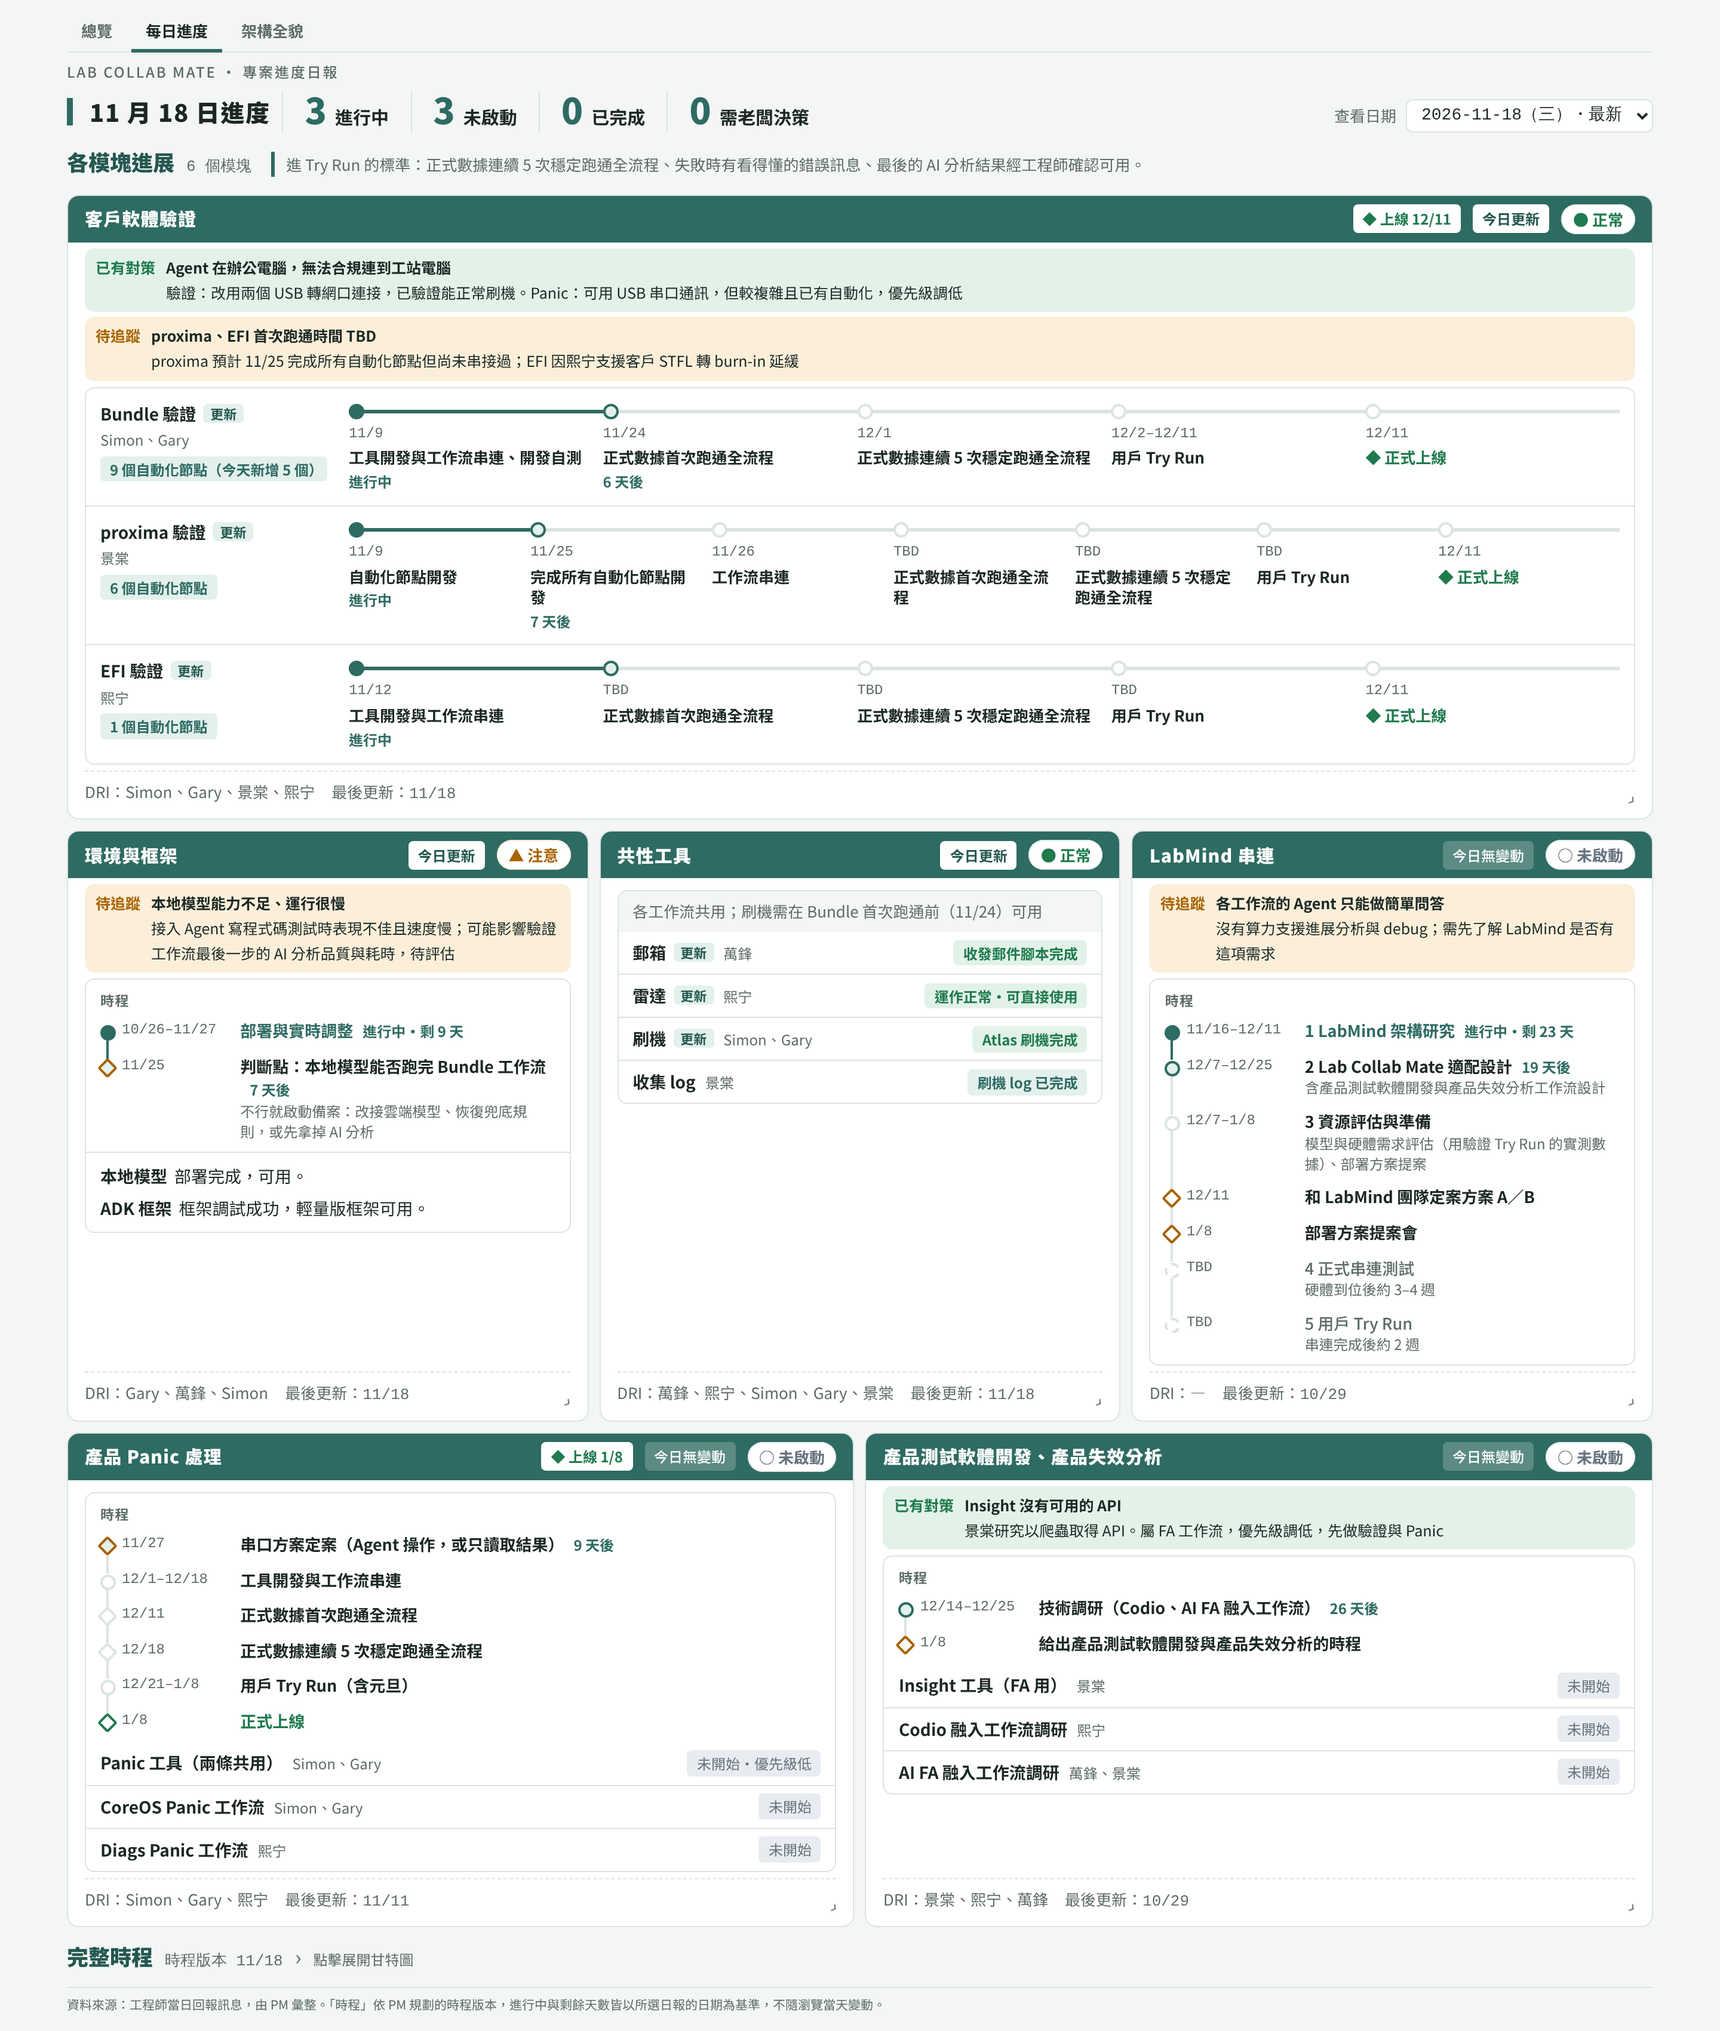
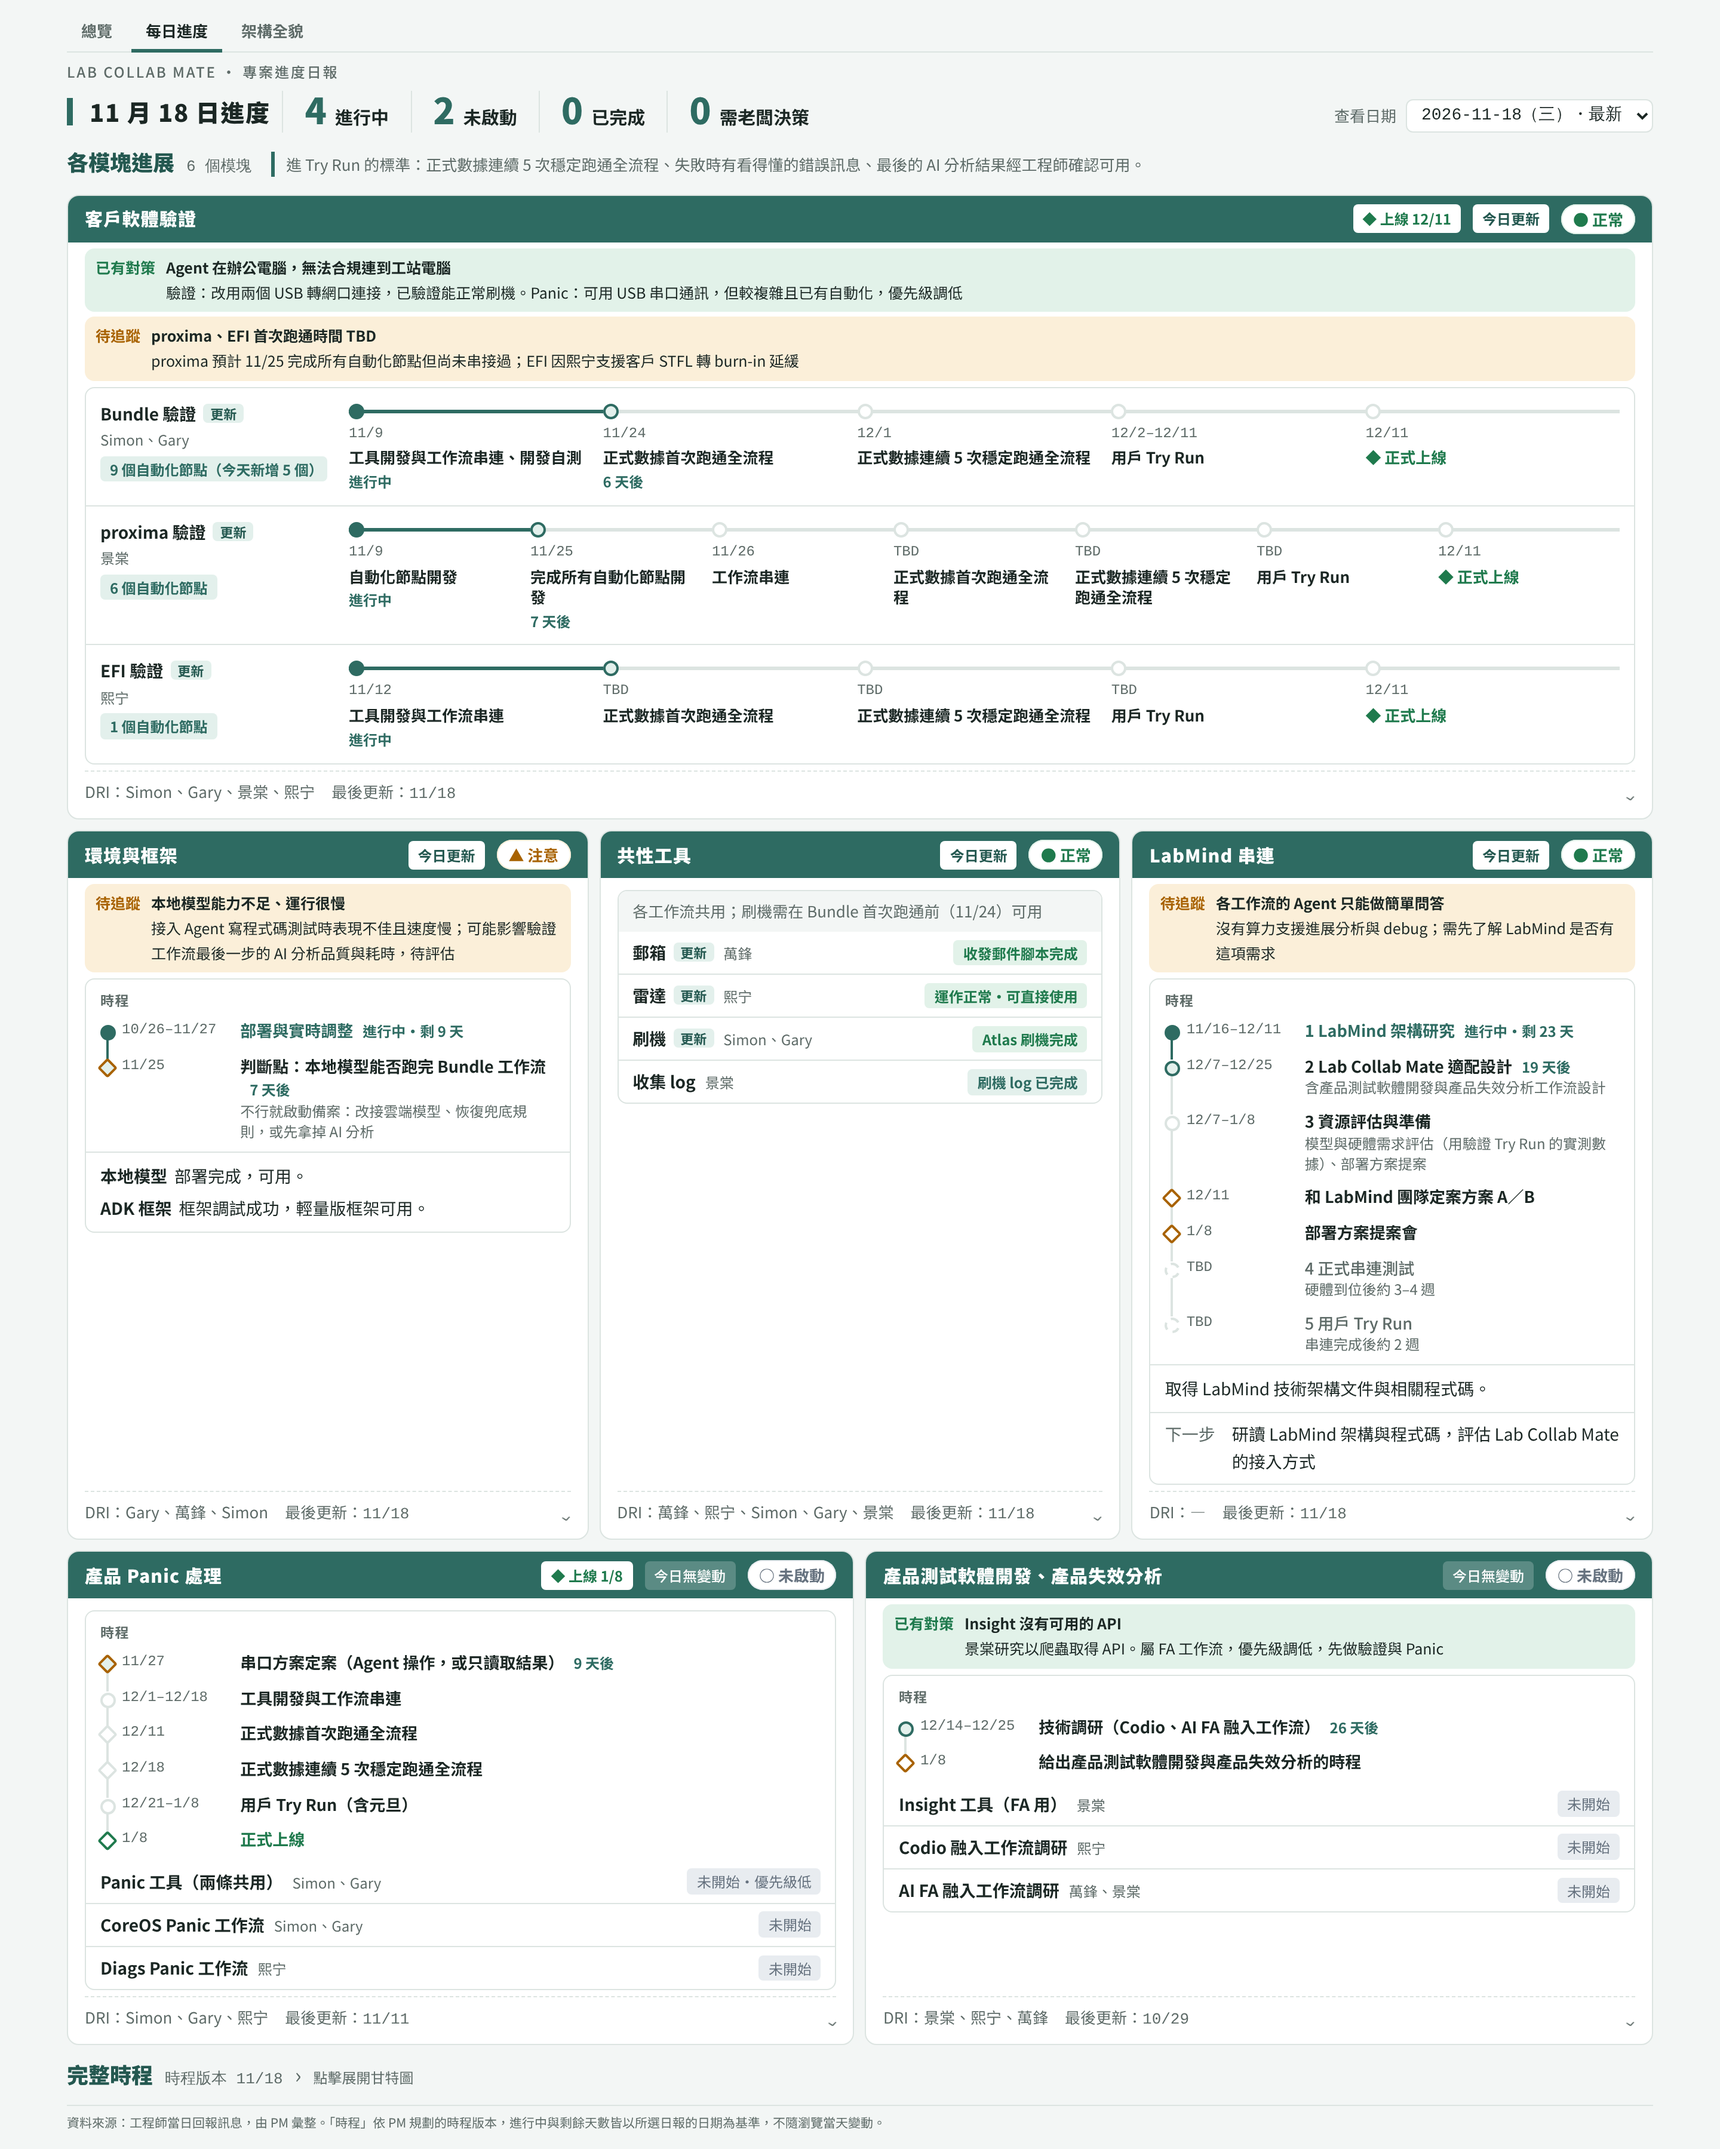
[2026-11-17_overview-redesign] LabMind 進度寫入 11/18 日報
Claude-Session: https://claude.ai/code/session_01Cd6Gft6mTX8zcMZinAmXya

diff --git a/public/daily.html b/public/daily.html
@@ -618,6 +618,9 @@ const d1118 = day(d1111, d => {
   d[4].items[0] = ["Bundle 驗證工作流","Simon、Gary","已串聯 4 個節點","doing"];
   Object.assign(d[5], {state:"Bundle 部分節點試用中", update:"Bundle 驗證：能跑通查看新 bundle、下載新 bundle、刷機。EFI、proxima 本次未回報。"});
   d[5].items[0] = ["Bundle 驗證（查看、下載、刷機）","Simon、Gary","可跑通","doing"];
+  Object.assign(d[6], {status:"green", state:"架構研究中・已取得架構與程式碼",
+    update:"取得 LabMind 技術架構文件與相關程式碼。", next:"研讀 LabMind 架構與程式碼，評估 Lab Collab Mate 的接入方式"});
+  d[6].items[0] = ["LabMind 架構研究","—","已取得架構文件與程式碼","doing"];
 });
 
 const REPORTS = [
